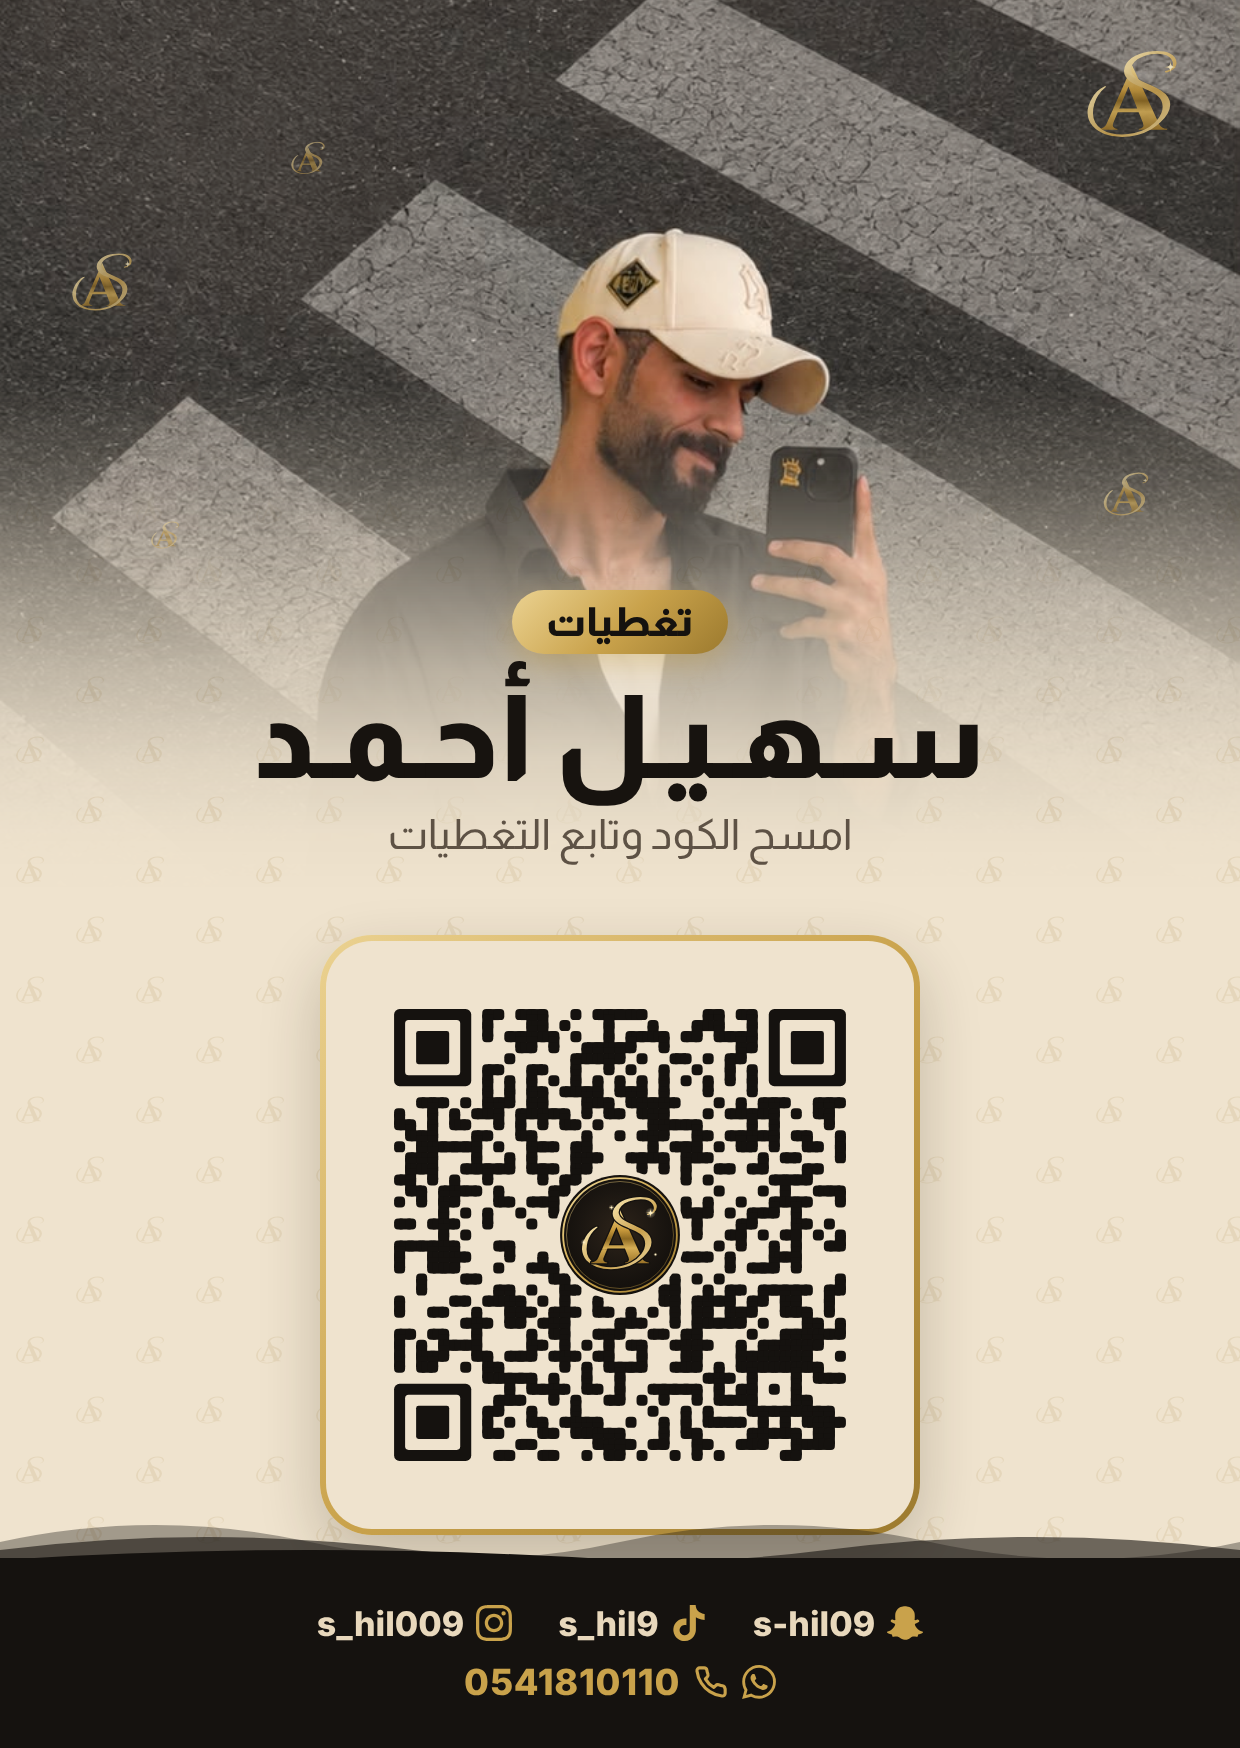
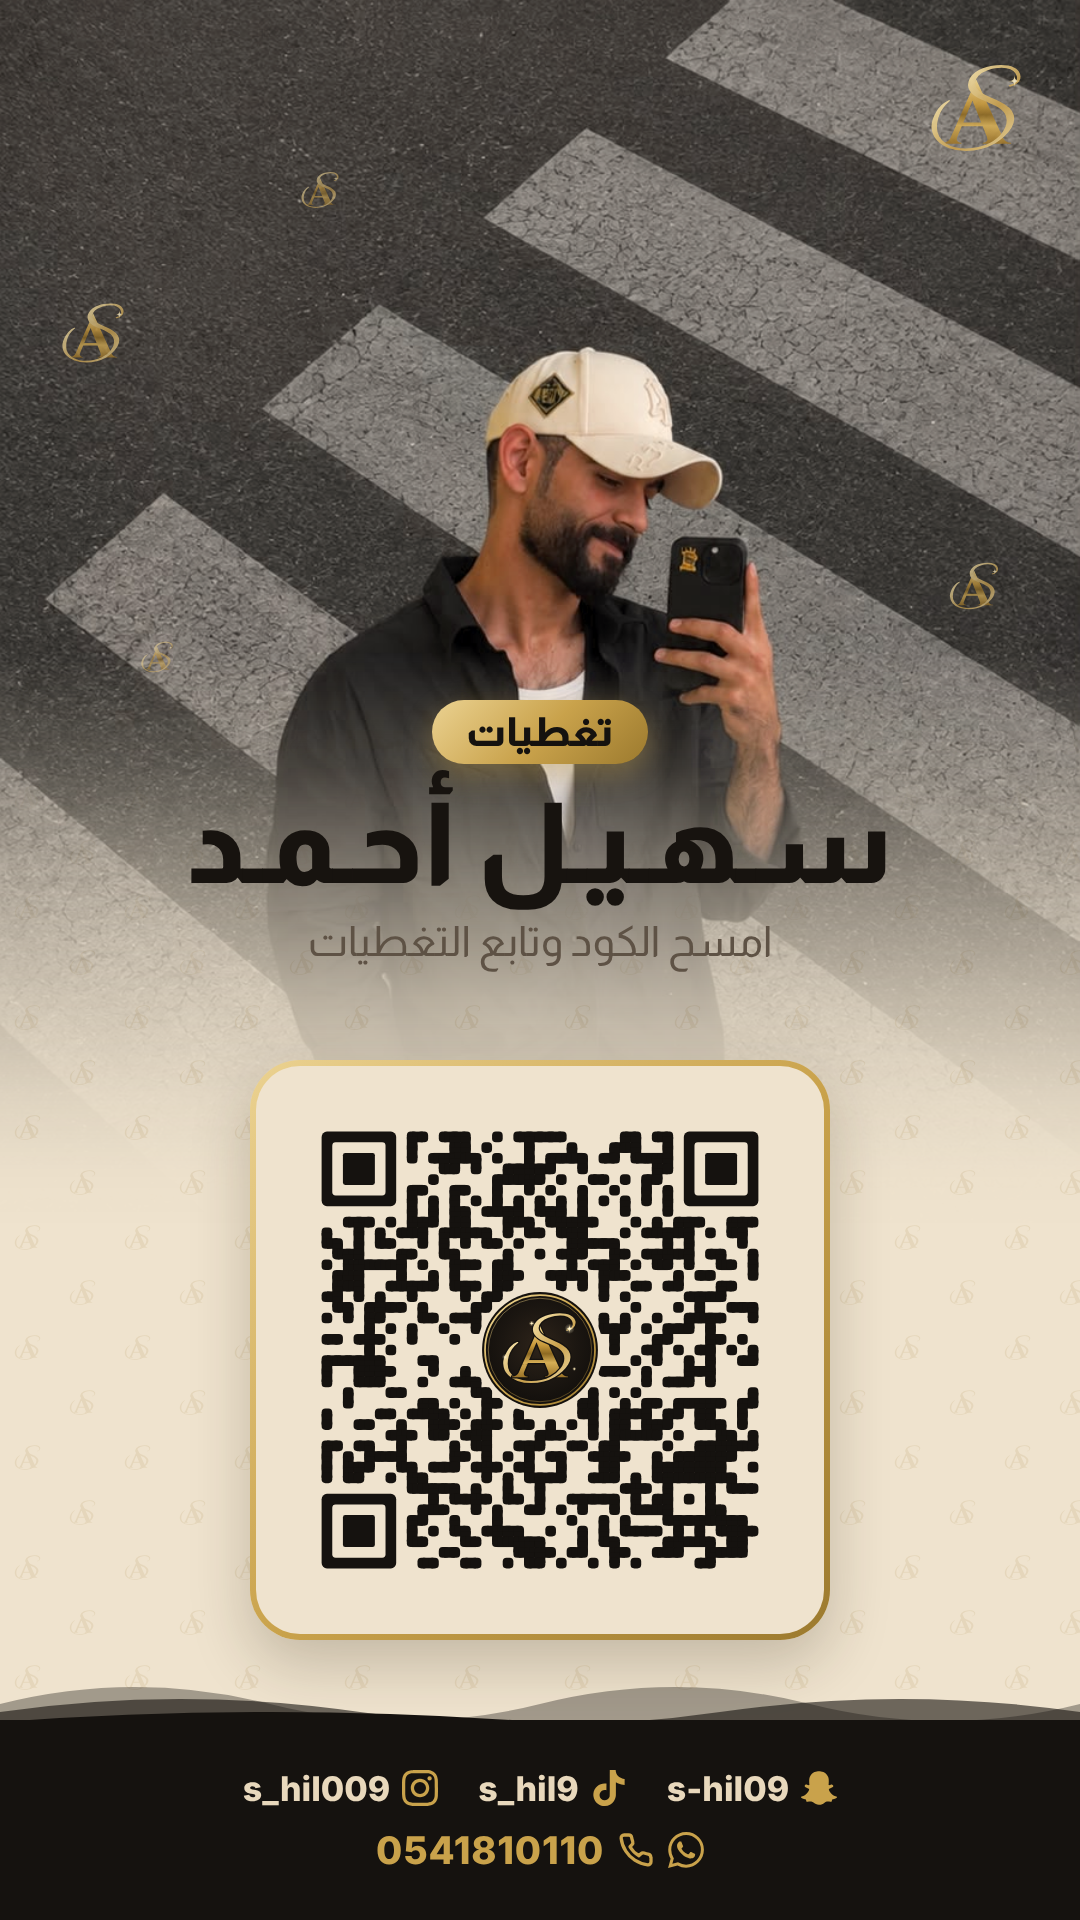
Add a 9:16 story card

diff --git a/README.md b/README.md
@@ -8,7 +8,7 @@
 - `index.html` الصفحة والتصميم
 - `links.js` الروابط والرقم
 - `photo.webp` صورة الخلفية
-- `qr/` ملفات الـ QR والبطاقة للطباعة (A6)
+- `qr/` ملفات الـ QR وبطاقة الستوري وبطاقة الطباعة (A6)
 - `logo/` شعار SA (SVG و PNG بخلفية شفافة)
 - `fonts/` خط المراعي
 
@@ -41,7 +41,8 @@
 ## الـ QR
 - `suhail-qr.png` و `suhail-qr.svg`: الـ QR الملوّن وفي نصه شعار SA
 - `suhail-qr-plain.png` و `suhail-qr-plain.svg`: QR عادي
-- `suhail-qr-card.png`: بطاقة A6 للطباعة بدقة 300
+- `suhail-qr-card.png`: بطاقة بمقاس الستوري 9:16 (1080 × 1920)
+- `suhail-qr-card-a6.png`: بطاقة A6 للطباعة بدقة 300
 
 ## ملاحظة
 رابط الصفحة مبني على اسم الحساب واسم المستودع، فتغيير أي واحد منهم أو تحويل المستودع لخاص يوقف الـ QR.
